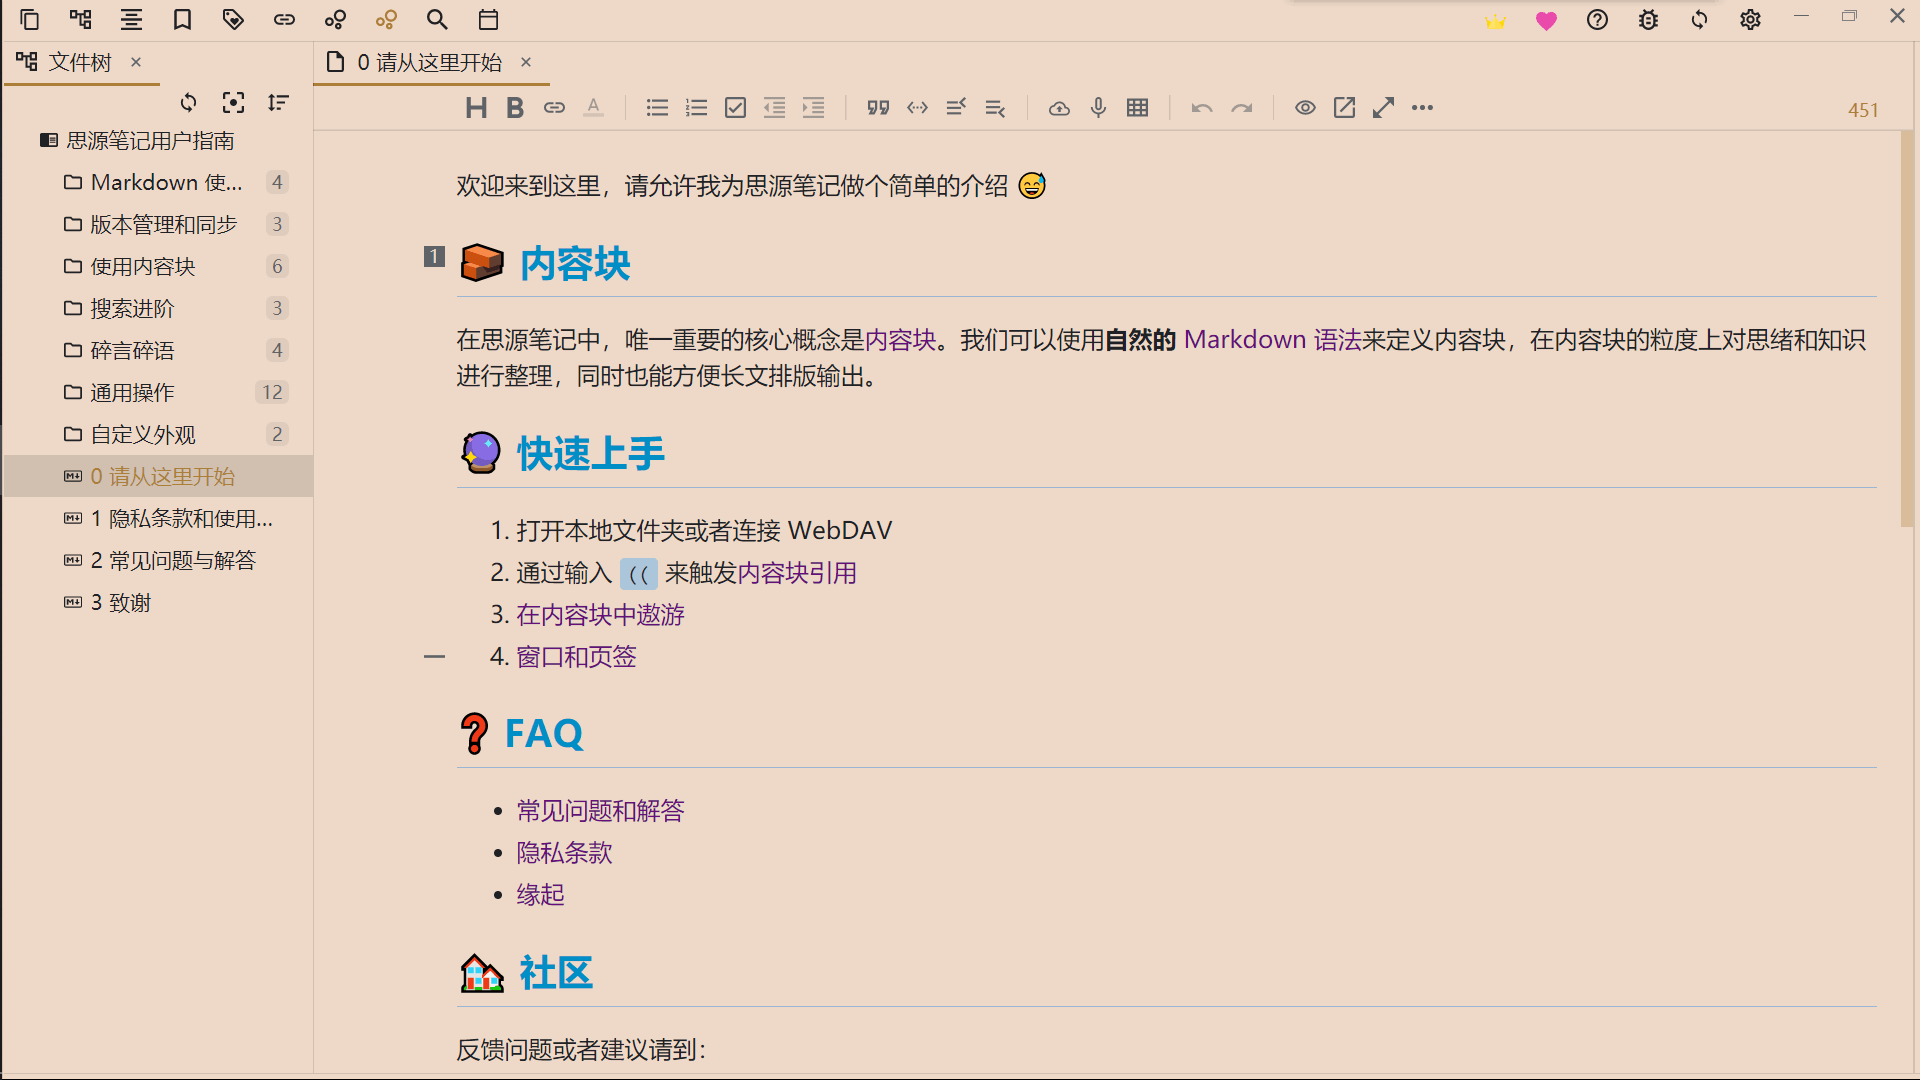
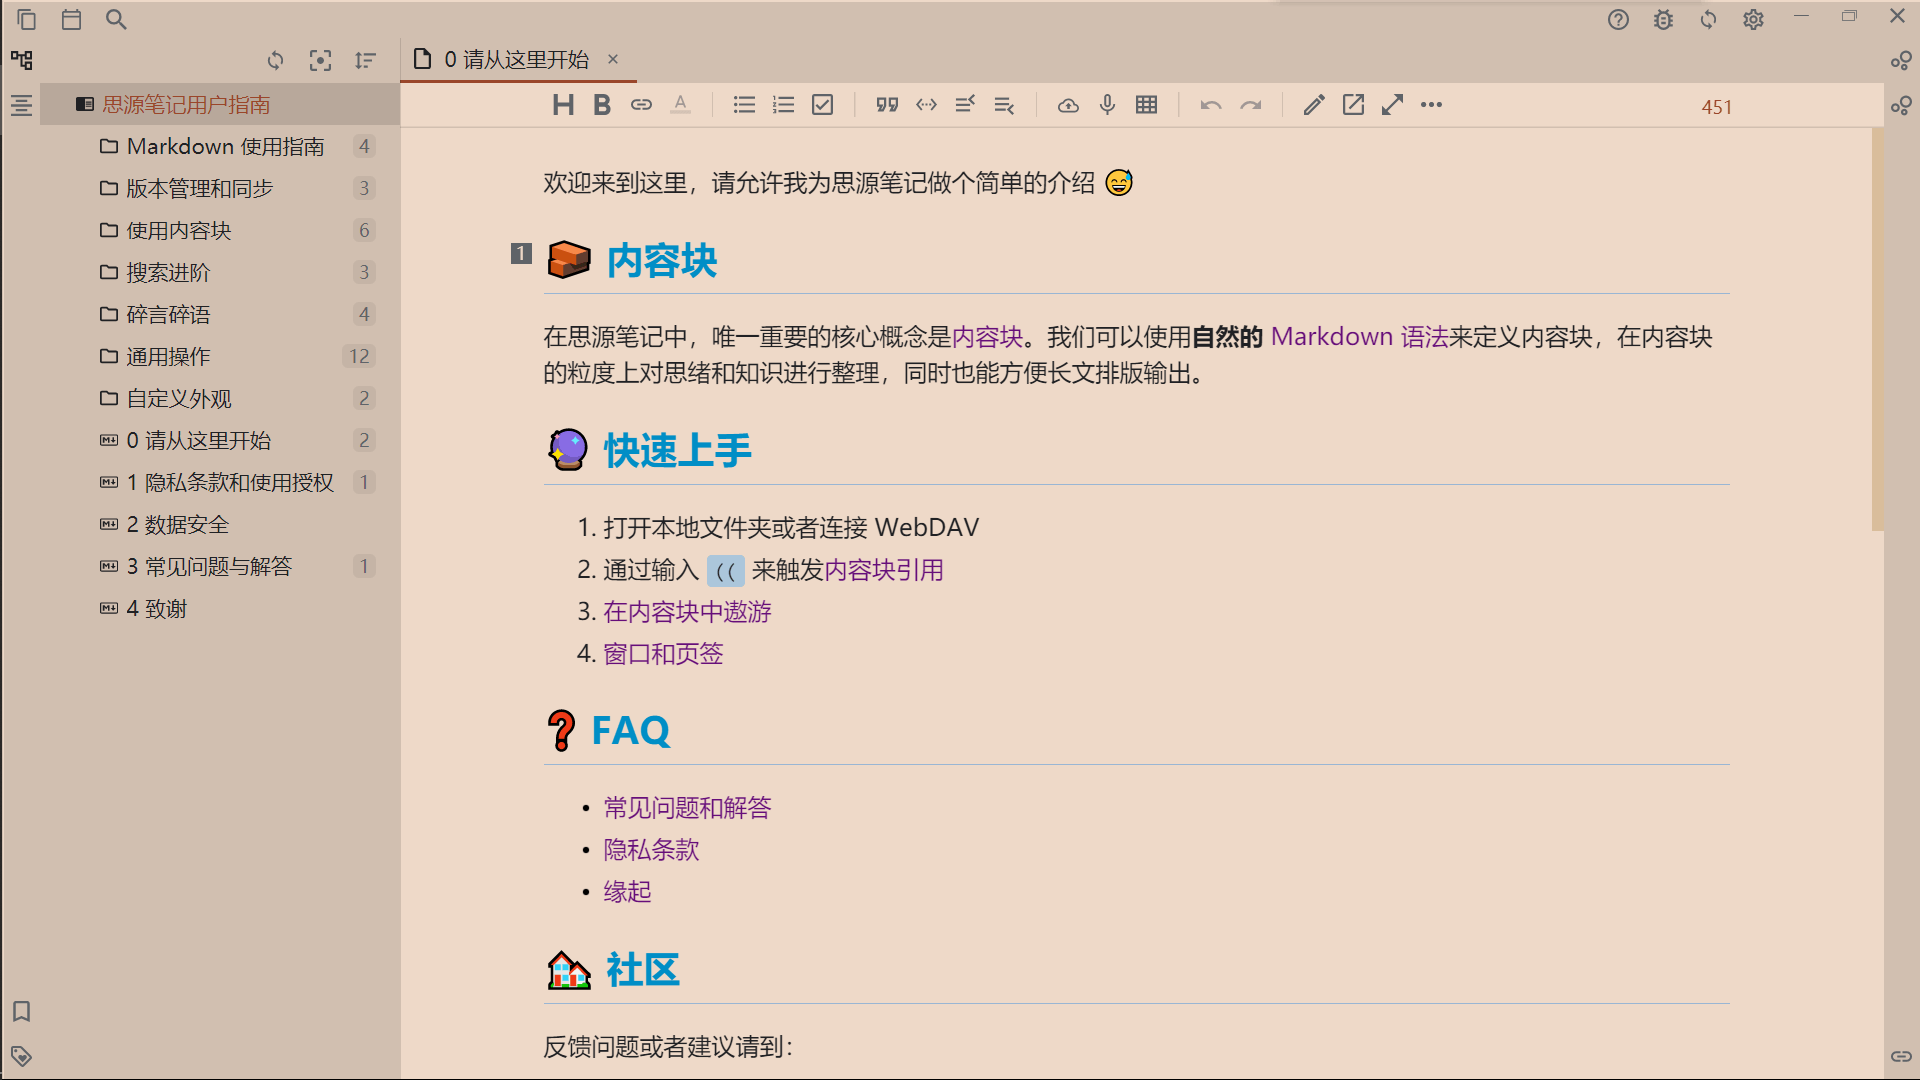
v0.0.5

diff --git a/theme.css b/theme.css
@@ -108,6 +108,9 @@
     --FleshRose-tab-background-hover: #D0BBAA80;
     --FleshRose-close-color: #ffffff;
     --FleshRose-blockquote-color: #D0BBAA80;
+    --FleshRose-Immersive-color: #D1BFB0;
+    --FleshRose-List-Background-color: #b8a89b;
+
     
     /* Lavender blockFocus */
     --b3-card-error-background: #94443A;
@@ -286,7 +289,7 @@
 .b3-list-item.b3-list-item--two:hover
 .b3-list.b3-list--background.file-tree,
 .b3-list-item:hover {
-    background-color: var(--FleshRose-tab-background-hover) !important;
+    background-color: var(--FleshRose-List-Background-color) !important;
     /* box-shadow: 0 1px 1px var(--FleshRose-highLight-color),
     0 -1px 1px var(--FleshRose-highLight-color); */
 }
@@ -322,7 +325,9 @@
 /* 标签 */
 span[data-type="tag"] span:nth-child(2),
 /* 对顶部工具栏的美化 */
-.vditor-toolbar__item.b3-tooltips.b3-tooltips__s svg
+.vditor-toolbar__item.b3-tooltips.b3-tooltips__s svg,
+/* Dock栏的hover动画 */
+.dock__item.b3-tooltips.b3-tooltips__e svg, .dock__item.b3-tooltips.b3-tooltips__w svg
 {
     transition: all .3s linear;
 }
@@ -399,4 +404,20 @@ span[data-type="tag"]:hover span:nth-child(2) {
 /* h标签的符号颜色统一 */
 .vditor-ir__marker.vditor-ir__marker--heading {
     color: var(--FleshRose-h-highLight-color)
+}
+
+/* Dock栏高亮 */
+.dock__item.b3-tooltips.b3-tooltips__e:hover svg, .dock__item.b3-tooltips.b3-tooltips__w:hover svg {
+    color: var(--FleshRose-highLight-color) !important;
+}
+/* v0.6.7背景色统一 */
+/* 增加沉浸感 */
+.fn__flex.layout-tab-bar, .b3-list__header, .block__title + .fn__space.fn__flex-1, .block__icons, #barSearch + .fn__flex-1, #layouts > .layout__resize, #layouts > .layout__resize::after, .layout-tab-container.fn__flex-1, #toolbar {
+    background-color: var(--FleshRose-Immersive-color);
+}
+.layout-tab-bar .item--focus {
+    background-color: transparent;
+}
+.file-tree__header {
+    background-color: transparent;
 }

diff --git a/README.md b/README.md
@@ -1,7 +1,7 @@
 # 思源主题: FleshRose(light)
 
-## v0.0.4
-1. 修复了列表上的bug
+## v0.0.5
+1. Dock栏配色
 
 ## 预览图
-![](https://cdn.jsdelivr.net/gh/ihyw/blogIH-First@main/2021/01/12/-35a0859d3594ba70.jpg)
+![](https://cdn.jsdelivr.net/gh/ihyw/blogIH-First@main/2021/01/25/FleshRose.png)
